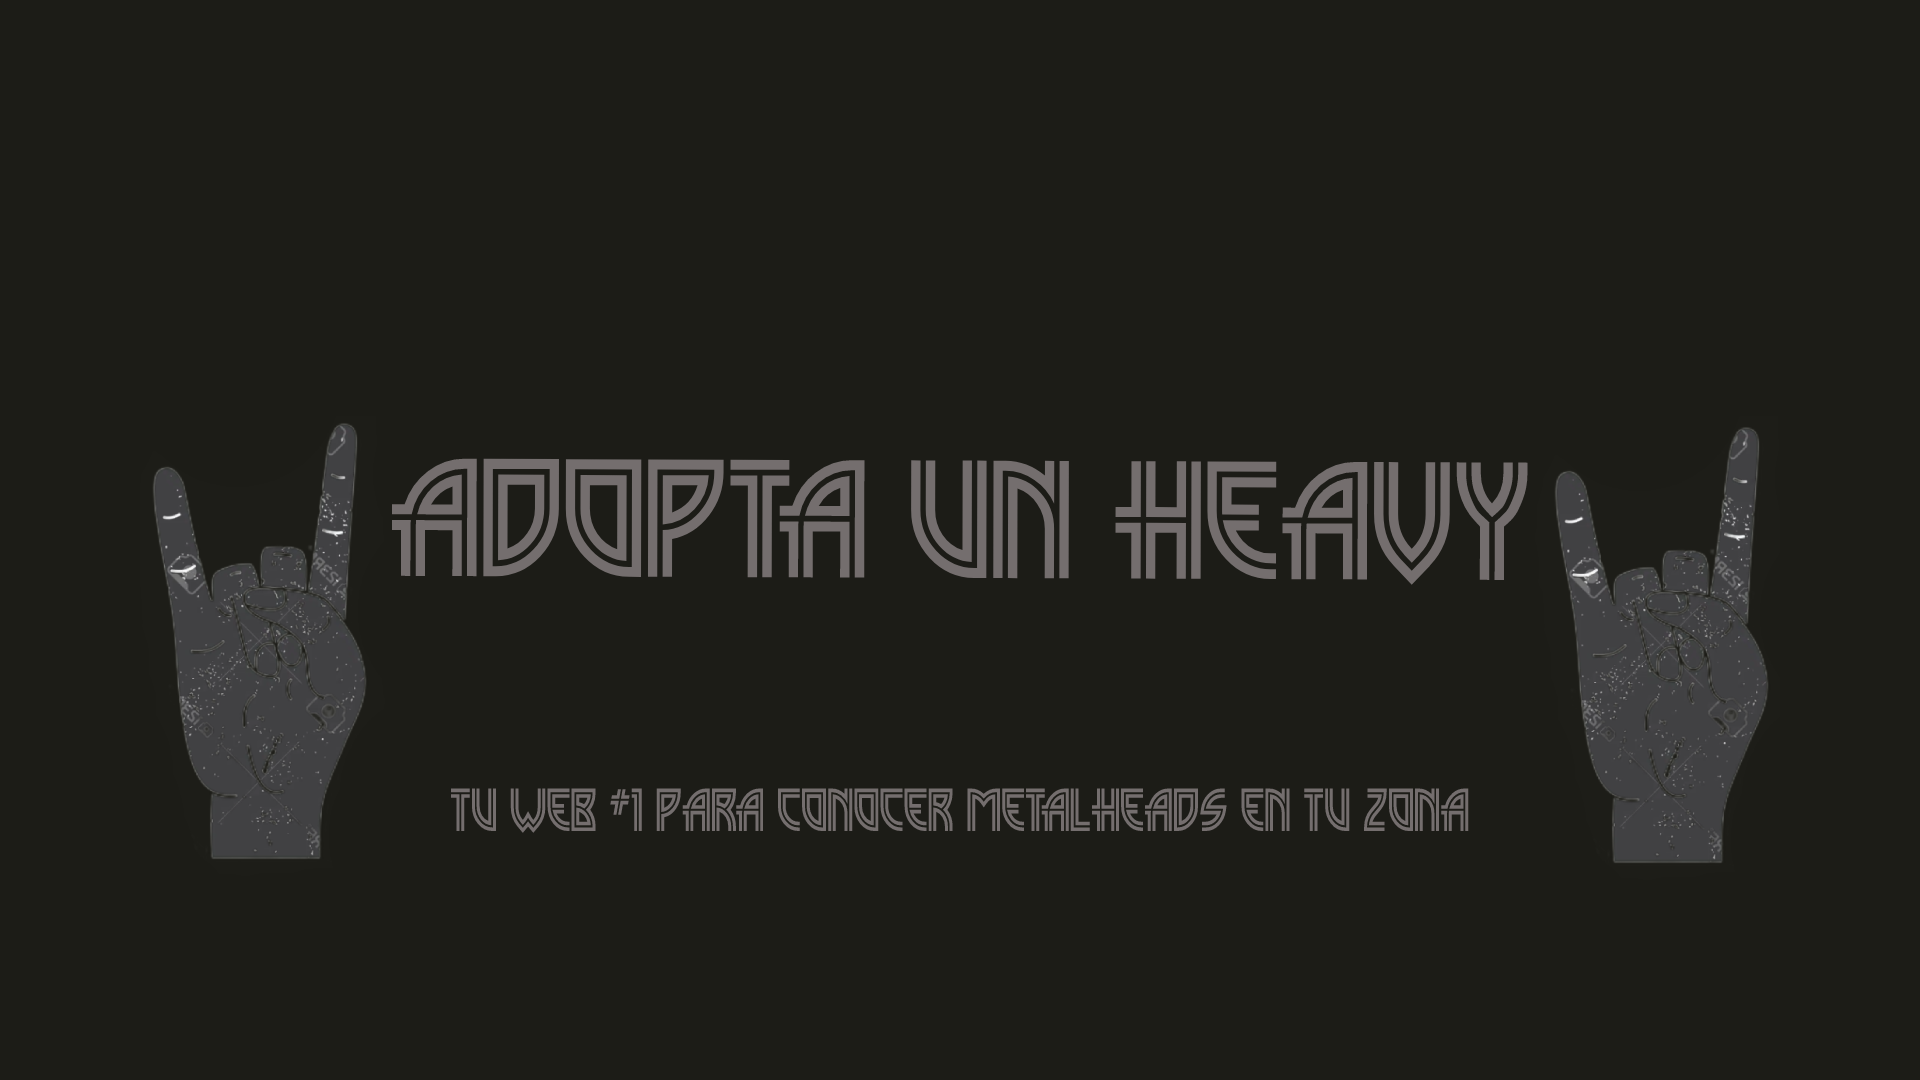
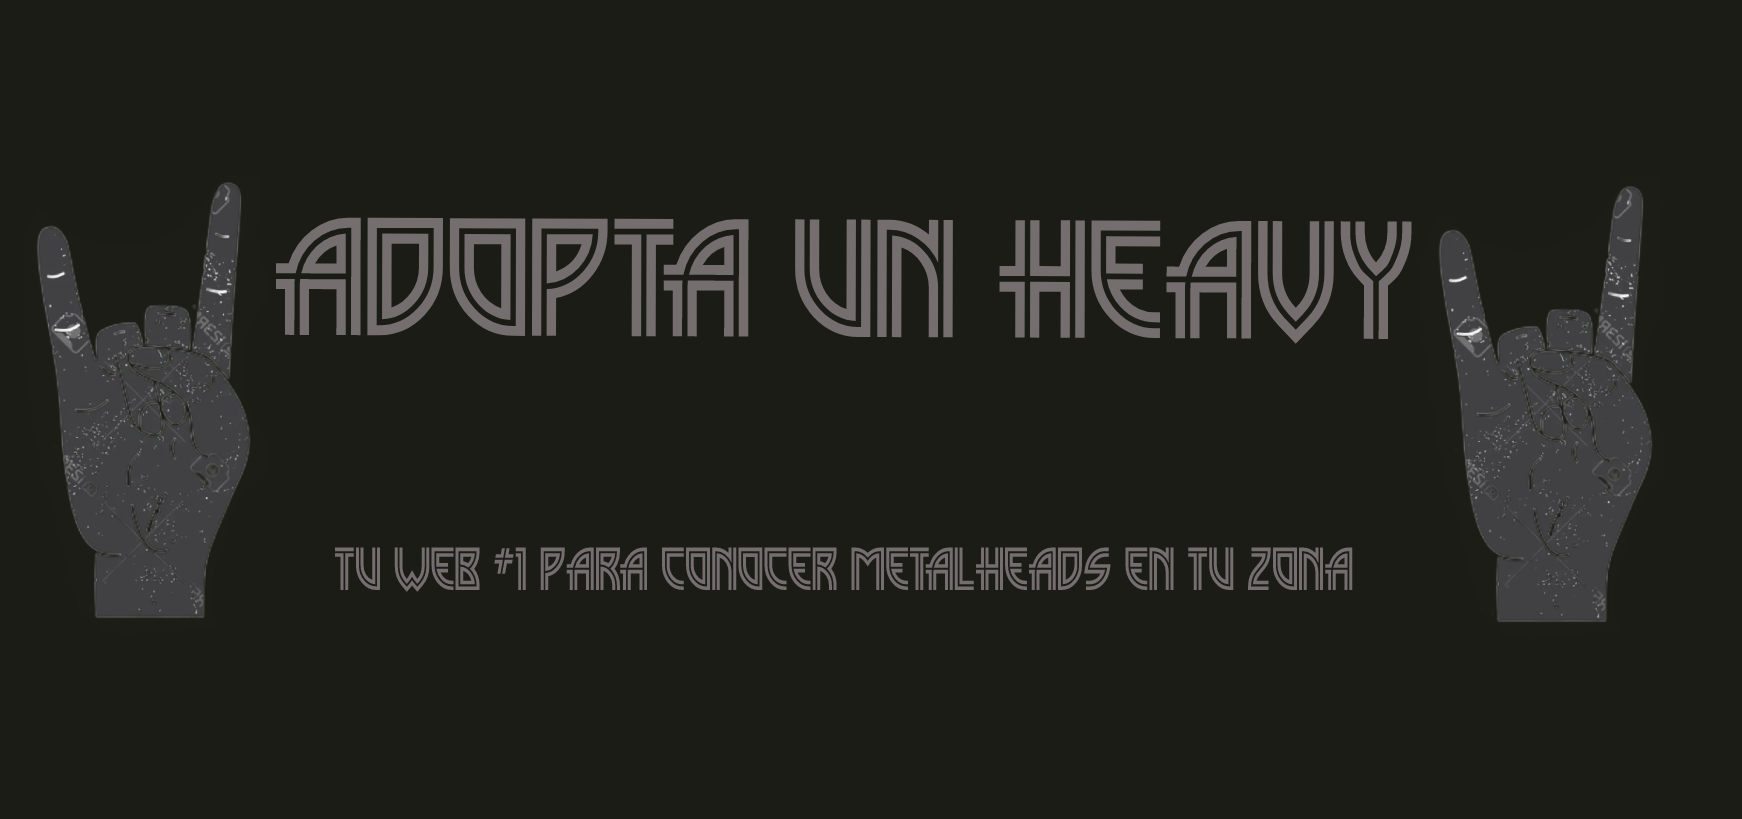
he solucionado tema de porcentajes en margin y trabajando en formato mobile

Changed region(s): [[0.0, 0.2137, 0.961, 0.8242]]

diff --git a/index.html b/index.html
@@ -1,39 +1,50 @@
 <!DOCTYPE html>
 <html lang="en">
-
-<head>
-    <meta charset="UTF-8">
-    <meta http-equiv="X-UA-Compatible" content="IE=edge">
-    <meta name="viewport" content="width=device-width, initial-scale=1.0">
-    <link rel="stylesheet" href="./style.css">
+  <head>
+    <meta charset="UTF-8" />
+    <meta http-equiv="X-UA-Compatible" content="IE=edge" />
+    <meta name="viewport" content="width=device-width, initial-scale=1.0" />
+    <link rel="stylesheet" href="./style.css" />
     <title>ADOPTA UN HEAVY</title>
-</head>
+  </head>
 
-<body>
+  <body>
     <header>
-        <img class="logo_1" src="./images/Proyecto nuevo.png" alt="header_image">
+      <img
+        class="logo_1"
+        src="./images/Proyecto nuevo.png"
+        alt="header_image"
+      />
     </header>
 
     <div>
-        <div>
-            <nav>
-                <ul class="main_nav">
-                    <li class="nav_links"><a href="index.html">HOME</a></li>
-                    <li class="nav_links"><a href="escoge.html">ESCOGE TU HEAVY</a></li>
-                    <li class="nav_links"><a href="pide.html">PIDE TU HEAVY</a></li>
-                    <li class="nav_links"><a href="sobrenosotros.html">SOBRE NOSOTROS</a></li>
-                </ul>
-            </nav>
+      <div>
+        <nav>
+          <ul class="main_nav">
+            <li class="nav_links"><a href="index.html">HOME</a></li>
+            <li class="nav_links"><a href="escoge.html">ESCOGE TU HEAVY</a></li>
+            <li class="nav_links"><a href="pide.html">PIDE TU HEAVY</a></li>
+            <li class="nav_links">
+              <a href="sobrenosotros.html">SOBRE NOSOTROS</a>
+            </li>
+          </ul>
+        </nav>
+      </div>
+    </div>
+    <div>
+      <ul class="cuadrados_main">
+        <li class="cuadrados_centrales" class="main">HEAVYS DISPONIBLES MAIN</li>
+        <li class="cuadrados_centrales" class="valorados">HEAVYS MEJOR VALORADOS</li>
+        </li>
+      </ul>
+        <div class="contenedor_anuncios">
+        <a class="anuncios" href="https://endernity.es" target="_blank" rel="noopener">
+             <img src="https://www.rafabasa.com/publicidad/2023/banner_endernity03_04_23.gif" alt="ENDERNITY - Album/Gira">
+             <img src="https://www.rafabasa.com/publicidad/2023/banner_road_runner02_03_23.gif" alt="Rodrunner">
+         </a>
         </div>
     </div>
-<div>
-    <main class="heavys_disponibles"></main>
-    <aside class="heavys_mejor_valorados"></aside>
-    <aside class="anuncios_conciertos"></aside>
-</div>
 
-<footer class="copyright"></footer>
-
-</body>
-
+    <footer class="copyright"></footer>
+  </body>
 </html>

diff --git a/style.css b/style.css
@@ -2,8 +2,7 @@
   color: rgb(218, 215, 211);
   font-family: Cambria, Cochin, Georgia, Times, "Times New Roman", serif;
   box-sizing: border-box;
-  margin: 0;
-  padding: 0;
+  text-decoration: none;
 }
 
 body {
@@ -12,38 +11,78 @@ body {
   background-size: cover;
 }
 
+/* header {
+  width: 60%;
+} ---> ESTO TE PUEDE IR BIEN CUANDO LO QUIERAS ESCALAR A FORMATO PC*/
+
 .logo_1 {
-  width: 40%;
+  width: 100%;
   justify-content: center;
   display: grid;
-  margin: -8.2% auto -3% auto; 
-  clip-path: inset(36% 6% 15% 6%);
   filter: grayscale(100%);
-  border: 30px solid rgba(102, 98, 98, 0.2);
-  border-radius: 60em;
+  border: 10px solid rgba(102, 98, 98, 0.2);
+  border-radius: 50em;
 }
 
 .main_nav {
-  white-space: nowrap;
+  /* white-space: nowrap; */
   text-align: center;
   list-style: none;
-  display: flex;
+  display:inline-flex;
+  /* flex-wrap: wrap; */
   justify-content: center;
   align-items: center;
   gap: 20px;
 }
 
 .nav_links {
-  margin: 1% 1% 1% 1%;
   background-color: rgb(133, 130, 130);
   border: 3px solid rgba(105, 99, 99, 0.2);
   border-radius: 10em;
 }
 
-@media screen and (max-width: 640px) {
+.cuadrados_main {
+  display: grid;
+  justify-content: space-around;
+  flex-wrap: wrap;
+  flex-direction: row;
+  grid-auto-flow: dense;
+  height: 400px;
+  grid-template-columns: 70% 30%;
+  grid-template-rows: auto;
+  grid-gap: 20px;
+  /* margin:1em auto auto auto; */
+  padding: 10px;
+}
+
+.cuadrados_centrales {
+  justify-content: center;
+  display: inline-block;
+  background: rgba(0, 0, 0, 0.3);
+}
+
+.contenedor_anuncios {
+  display: flex;
+  flex-direction: row;
+  justify-content: center;
+  position:relative;
+  top: 50%;
+  left: 50%;
+  transform: translate(-50%, -50%);  
+}
+
+.anuncios {
+  display: flex;
+  flex-wrap: wrap;
+  position:fixed;
+  justify-content: center;
+  height: 25vh;
+}
+
+/*@media screen and (max-width: 640px) {
   .logo_1 {
     width: 90%;
-    margin: -19% auto -7% auto; 
+/*    margin: -19% auto -7% auto; modificar margin sin porcentages
     clip-path: inset(36% 6% 15% 6%);
     border: 25px solid rgba(102, 98, 98, 0.2);
     border-radius: 60em;
@@ -55,8 +94,15 @@ body {
   }
   
   .nav_links {
-    margin: 2% auto;
+  margin: 2% auto;  /* modificar margin sin porcentages
     padding: 10px;
     border: 2px solid rgba(105, 99, 99, 0.2);
-  }
-}
+  } */
+
+/* @media (min-width: 768px) and (max-width: 1024px) {
+Estilos para pantallas de 768 a 1024 píxeles de ancho 
+} */
+
+/* @media (min-width: 1025px) {
+Estilos para pantallas de más de 1024 píxeles de ancho
+} */
